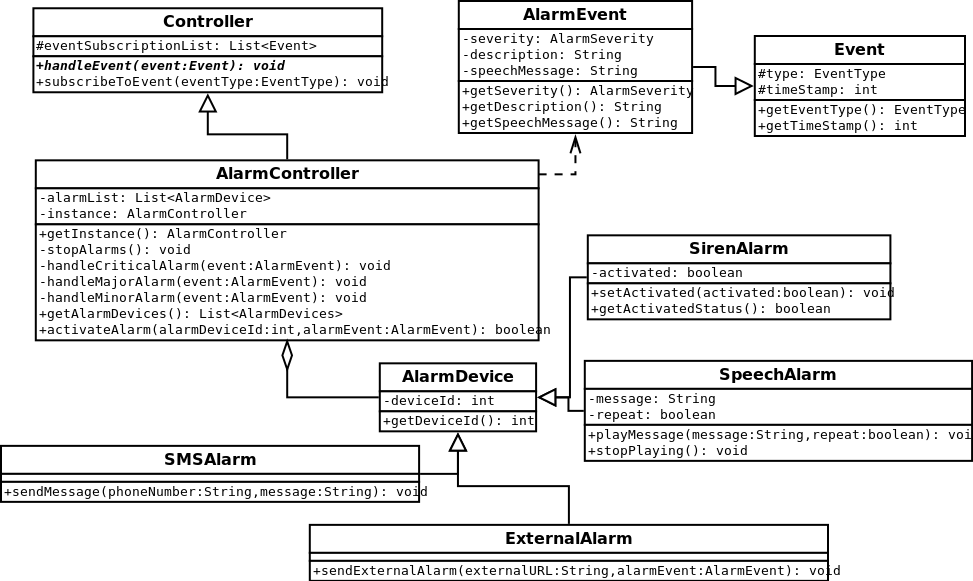
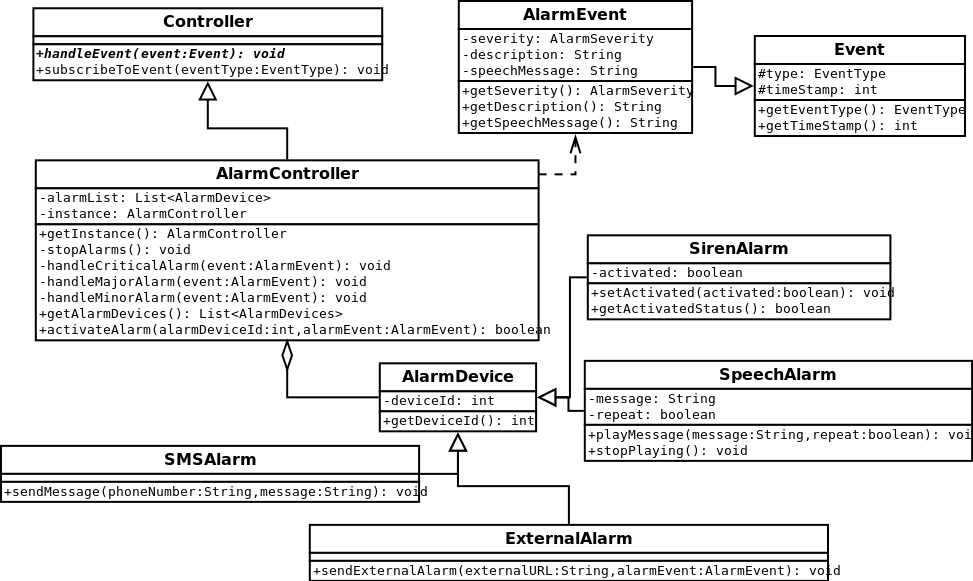
more object model shit

Changed region(s): [[0.0308, 0.062, 0.4008, 0.1859], [0.2158, 0.2169, 0.3083, 0.2478]]

diff --git a/sdd/sdd.tex b/sdd/sdd.tex
@@ -357,14 +357,30 @@ number of redundent diagrams.
 
 Each of the controllers are broken up into their own subsystem and are
 instantated as singletons. Each controller is derived from the same super class
-that provides the abstract method for handling events and creating the event
-subscription list.
+that provides the abstract method for handling events and the
+implementation for subscribing to events with the event manager.
+
+The class diagram for the first controller, the SensorController, and the
+sensors are shown in Figure~\ref{fig:sensor_controller_class_diagram}. This
+diagram also describes the EventType enumeration which is omitted from the
+other diagrams for brevity The SensorController aggregates a list of sensors,
+which is fetched from the EventManager. This controller can explictely poll
+sensors, handle the sensor input data, and check the sensor statuses. It sends 
+events to the other controllers through the event manager after deciding how an
+event should be handled. 
+
+The sensor subsystem along with the associated sensor events are also described
+in Figure~\ref{fig:sensor_controller_class_diagram}. The methods that can be
+called on each of the sensors are outlined as well as the associated events that
+will be eventually passed back to the controllers. Each sensor event has a
+sensor ID number associated with it as well as a specific door or window ID
+if it is from a door or a window sensor.
 
 \begin{landscape} 
 \floatstyle{plain}
 \restylefloat{figure}
 \begin{figure}[p]
-    \caption{SensorController Class Diagram}
+    \caption{SensorController and Sensor Class Diagram}
     \label{fig:sensor_controller_class_diagram}
     \includegraphics[scale=0.5]{sensor_controller_class_diagram.png}
 \end{figure}
